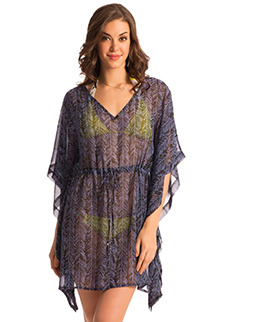
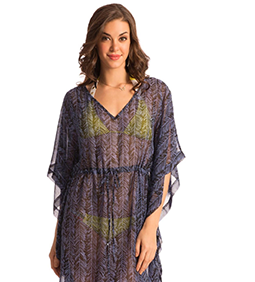
redone cart

Changed region(s): [[0.1647, 0.0, 0.7412, 1.0]]

diff --git a/module-5/styles/main.css b/module-5/styles/main.css
@@ -117,12 +117,9 @@ main {
 
 .product-image {
   display: block;
-  width: 100%;
-  height: 320px;
 }
 
 .block-product-info {
-  position: absolute;
   width: 100%;
   bottom: 0;
   display: flex;
@@ -153,15 +150,15 @@ main {
 
 .block-product-links {
   position: absolute;
-  top: 0px;
-  left: 0px;
-  width: 255px;
-  height: 265px;
+  top: 10px;
+  left: 10px;
+  right: 10px;
+  bottom: 55px;
   opacity: 0;
 }
 
 .block-product-links:hover {
-  background-image: url(../images/Rectangle-link.png);
+  background-color: rgb(0, 0, 0, 0.549);
   opacity: 1;
 }
 
